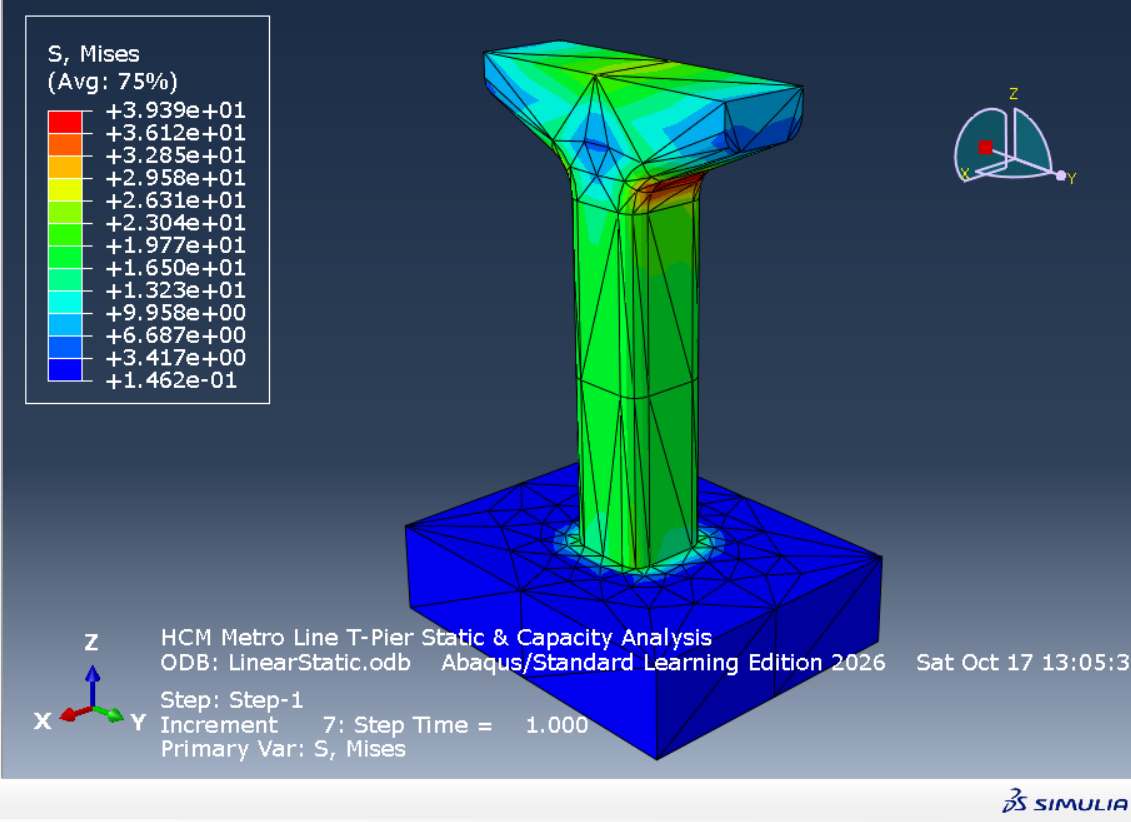
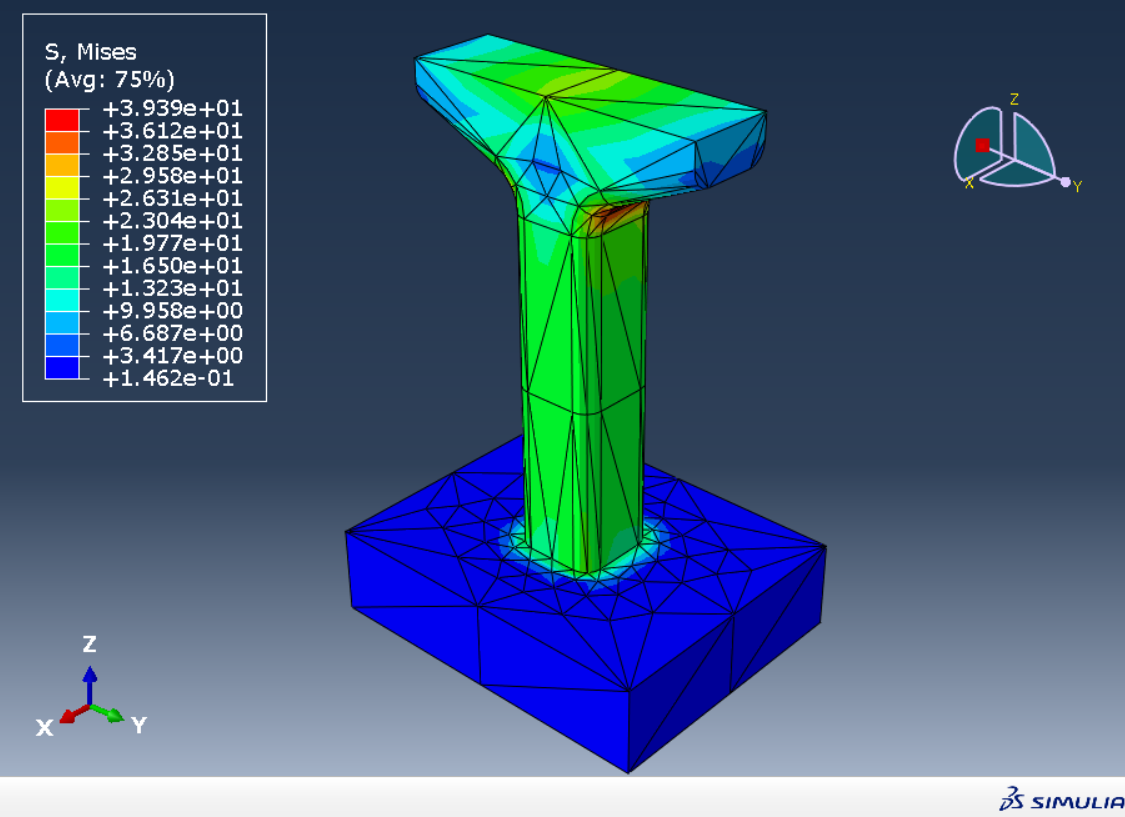
Update repository with dual-perspective FEA contour captures and material dialogs

diff --git a/README.md b/README.md
@@ -47,7 +47,10 @@ finite element stress and serviceability deflection simulation of an elevated vi
 * **foundation constraint:** fully fixed (encastre: $U_x = U_y = U_z = UR_x = UR_y = UR_z = 0$) across the bottom surface ($10.0\,\text{m} \times 8.0\,\text{m} = 80.0\,\text{m}^2$).
 
 ### 2. material properties & load definitions
-![Material and Load Properties Dialog](images/hcm_metro_pier_properties.png)
+![Material Properties - Density](images/mat_properties_1.png)
+![Material Properties - Elasticity](images/mat_properties_2.png)
+![Load Properties - Gravity](images/load_gravity_properties.png)
+![Load Properties - Bearing Pressure](images/load_pressure_properties.png)
 
 * **concrete grade:** high-performance concrete (hpc) grade c40 (tcvn 11823:2017).
 * **young's modulus:** $E = 32,500\,\text{MPa}$ ($3.25 \times 10^4\,\text{N/mm}^2$).
@@ -58,6 +61,7 @@ finite element stress and serviceability deflection simulation of an elevated vi
 
 ### 3. finite element discretization
 ![FEA Mesh](images/hcm_metro_pier_mesh.png)
+![Mesh Controls & Properties](images/mesh_properties.png)
 
 * **element type:** c3d10 (10-node quadratic tetrahedral solid element).
 * **element count:** 484 elements.
@@ -68,9 +72,13 @@ finite element stress and serviceability deflection simulation of an elevated vi
 
 ## visual results
 
-here are the simulation contour fields obtained from the linear static implicit solve.
+here are the simulation contour fields obtained from the linear static implicit solve across two perspectives.
 
-![FEA Simulation Results](images/hcm_metro_pier_analysis.png)
+### (a) overall top-down perspective (axial column compression & bearing distribution)
+![FEA Simulation Results Overall](images/hcm_metro_pier_analysis.png)
+
+### (b) underside close-up perspective (localized haunch fillet stress concentration)
+![FEA Simulation Results Haunch Close-up](images/hcm_metro_pier_analysis_2.png)
 
 ### key findings summary
 | Metric / Stress Invariant | FEA Output Value | Allowable Code Limit (TCVN 11823) | Safety Margin / Status |
